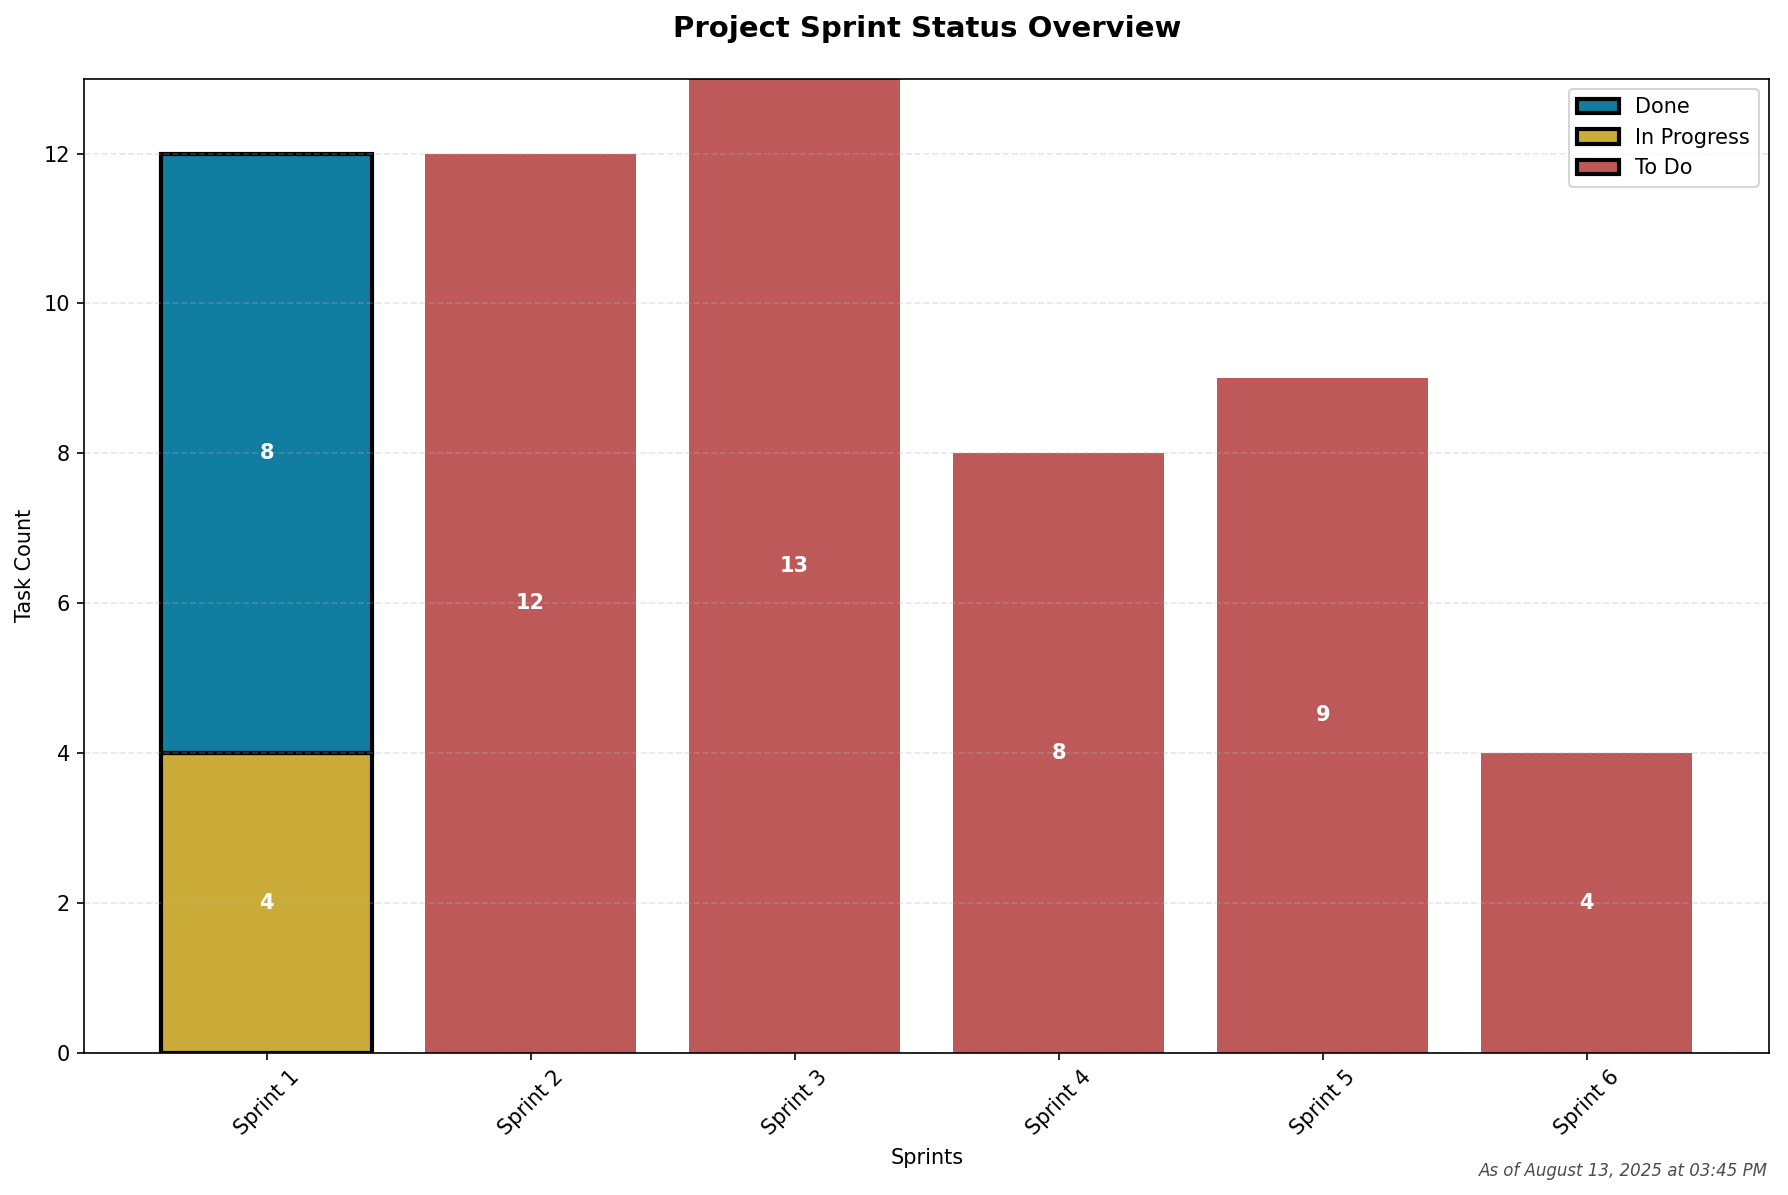
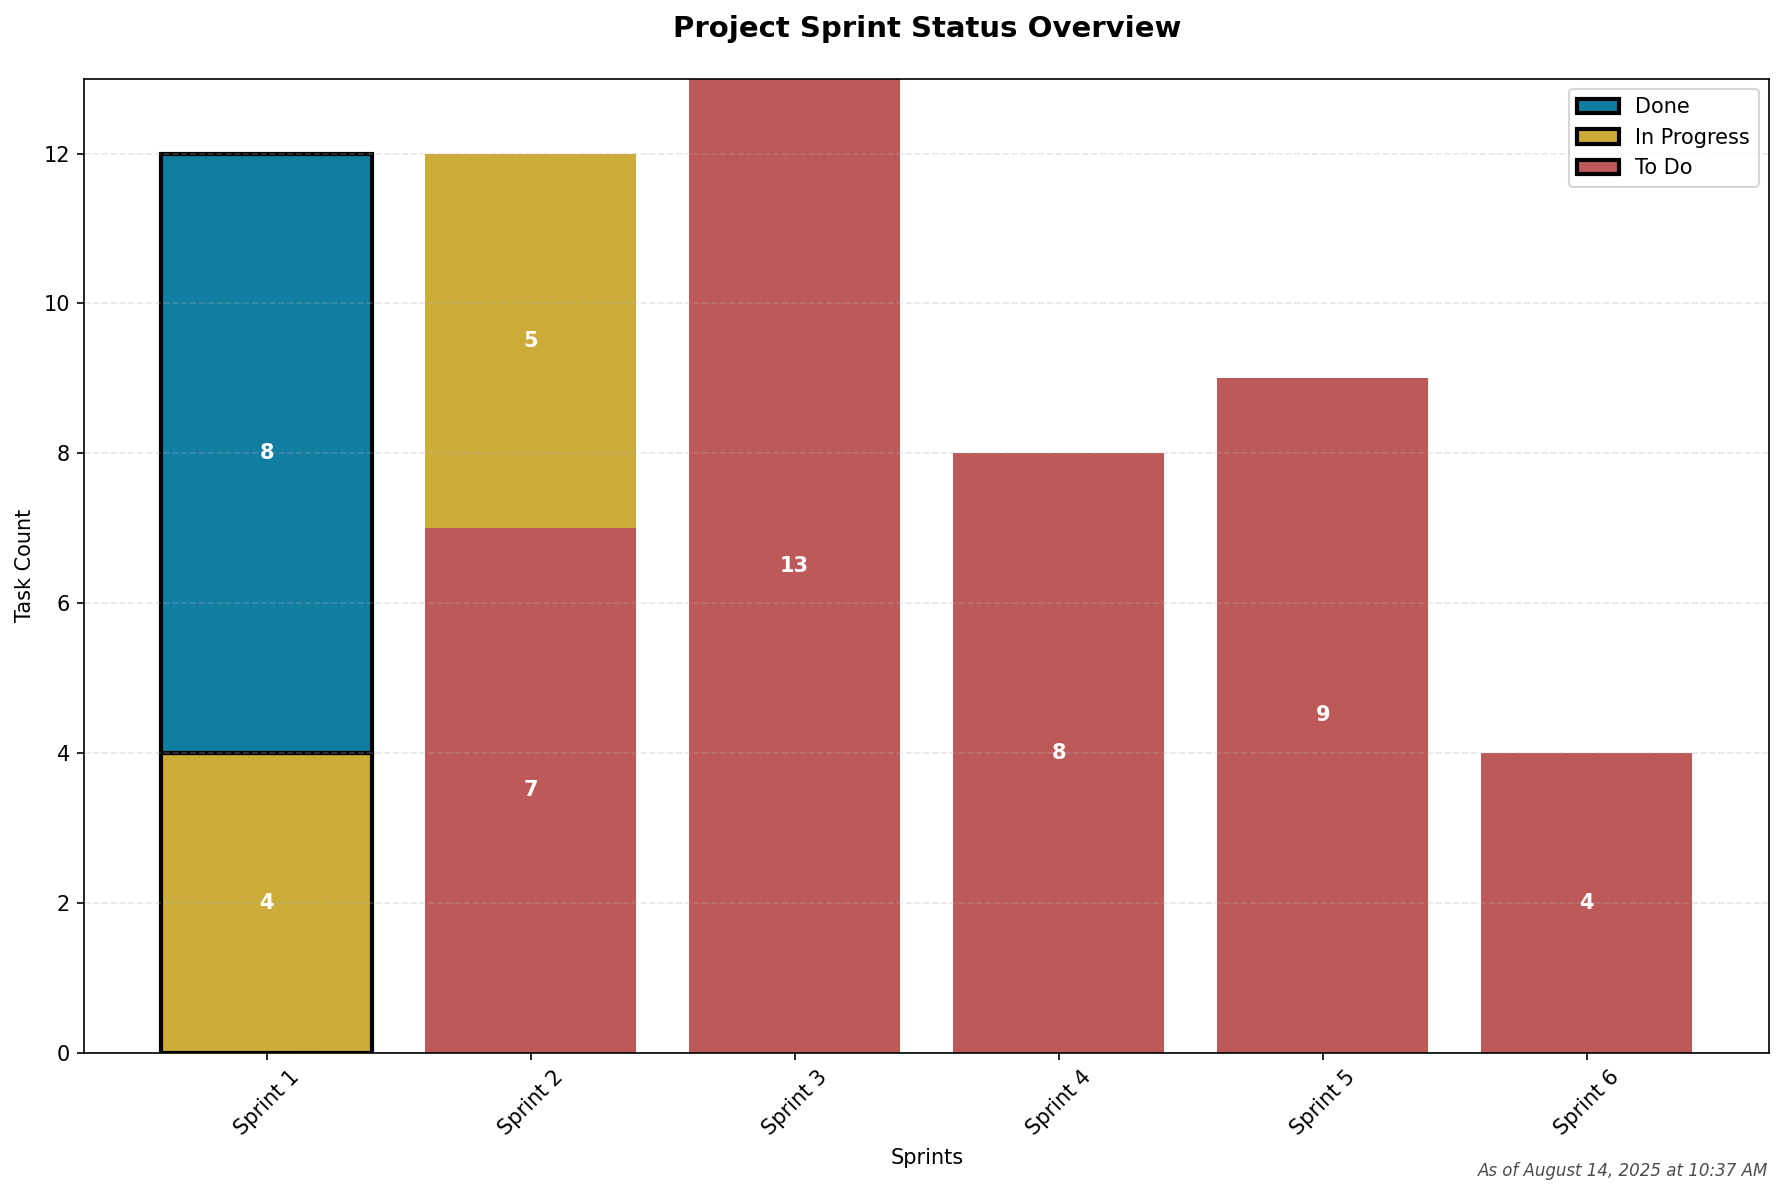
Update sprint status chart and tracker progress
Revised the sprint status chart image and updated progress indicators in the project tracker markdown for Sprint 2. Several tasks have been marked as partially complete to reflect current progress.

Changed region(s): [[0.2153, 0.1238, 0.3691, 0.4644], [0.8305, 0.9598, 0.9843, 0.9908], [0.2768, 0.4954, 0.3076, 0.5264]]

diff --git a/project_tracker.md b/project_tracker.md
@@ -83,14 +83,14 @@
 ## ⏳ Sprint 2: Data Infrastructure – Infra Setup, Data Intake, and Data Processing *(Aug 18–Aug 31)*
 
 ### Sprint Goals
-- [ ] Define data sources and access method (AWS Glue + PySpark)
+- [~] Define data sources and access method (AWS Glue + PySpark)
     - [ ] Develop master config and python class for Spark session and DB connections
-- [ ] Draft feature store schema
-- [ ] Define SQL query/joins for main data ingestion
-    - [ ] Customer + Account Data
-    - [ ] Transaction Data
+- [~] Define SQL query/joins for main data ingestion
+    - [~] Customer + Account Data
+    - [~] Transaction Data
     - [ ] Interaction Data
-    - [ ] Send final query/schema to Vineeta and team for table creation (feature store)
+    - [~] Draft feature store schema
+- [ ] Send final query/schema to Vineeta and team for review and table creation (feature store)
 - [ ] Develop a DataIngestionService() in PySpark  
     - [ ] Join/Ingest raw tables into feature store staging and perform quality checks
     - [ ] Implement point-in-time joins for first feature group  
